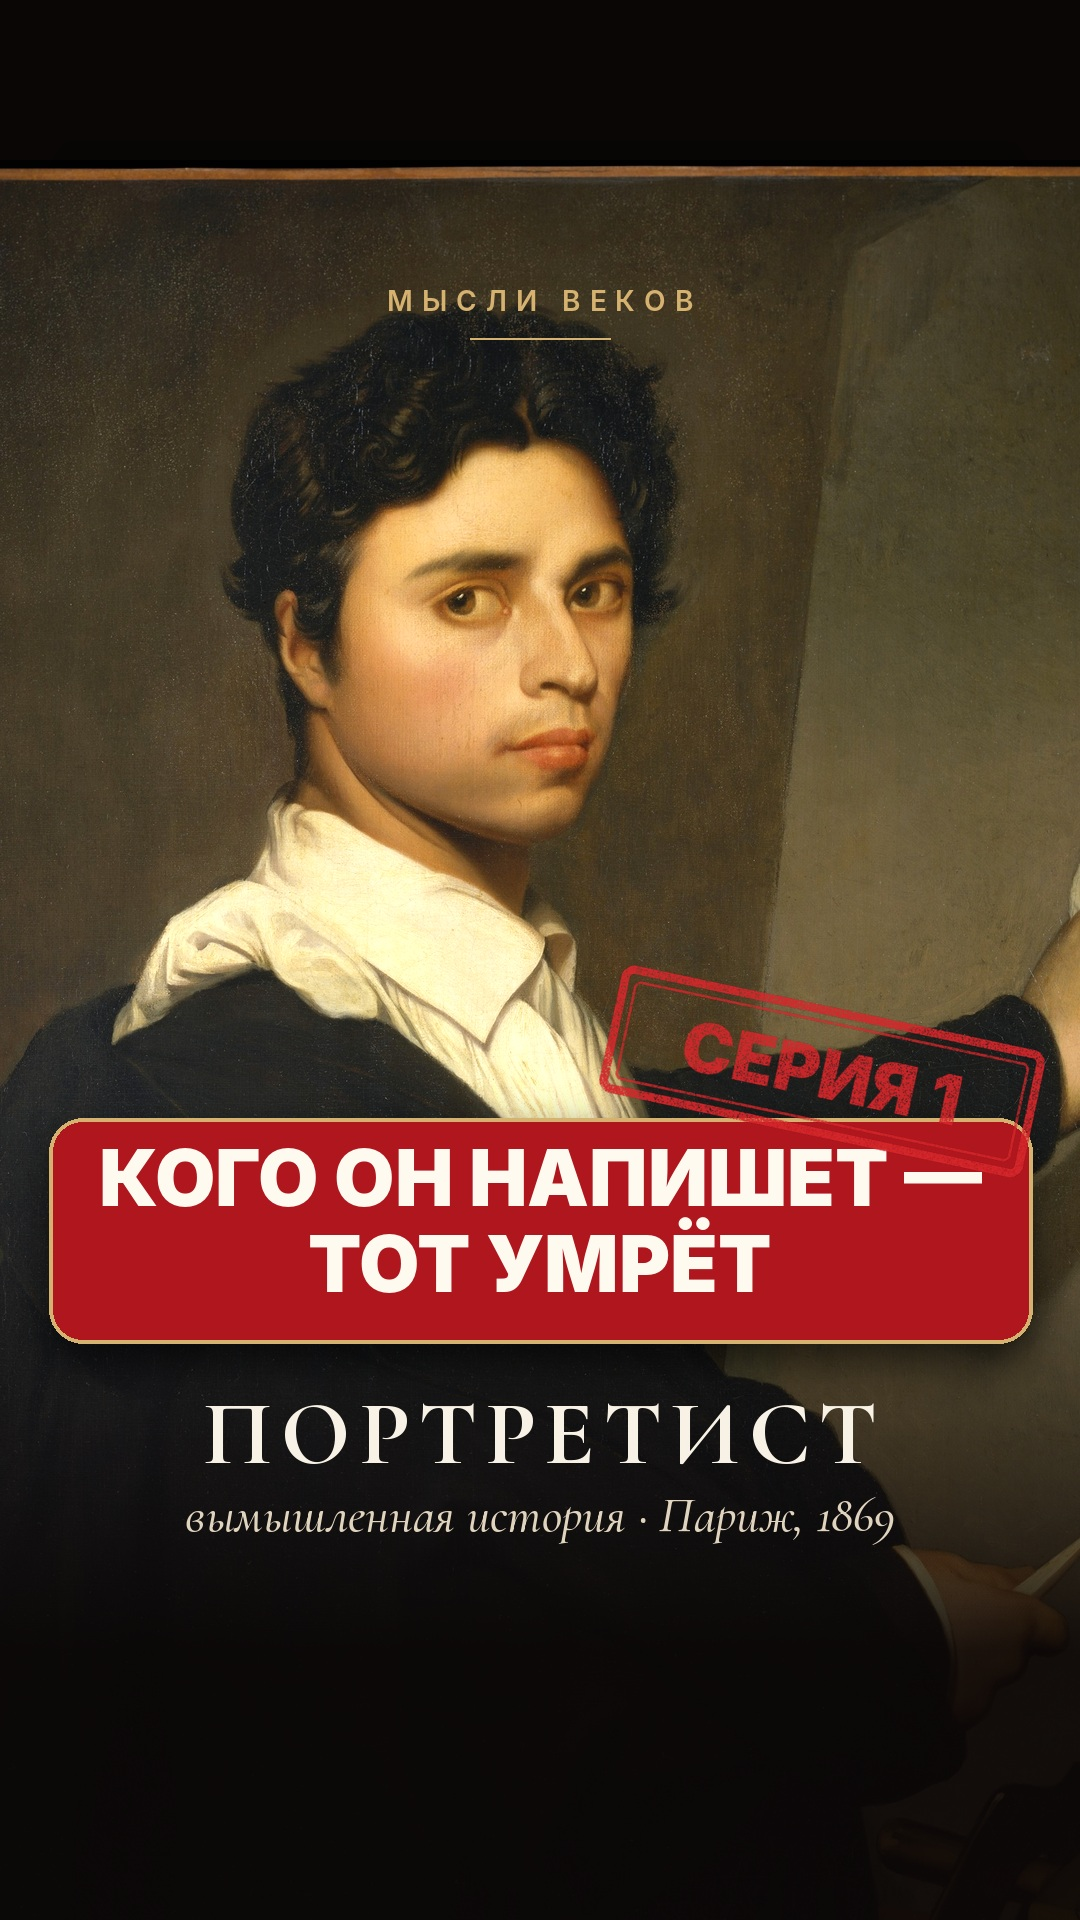
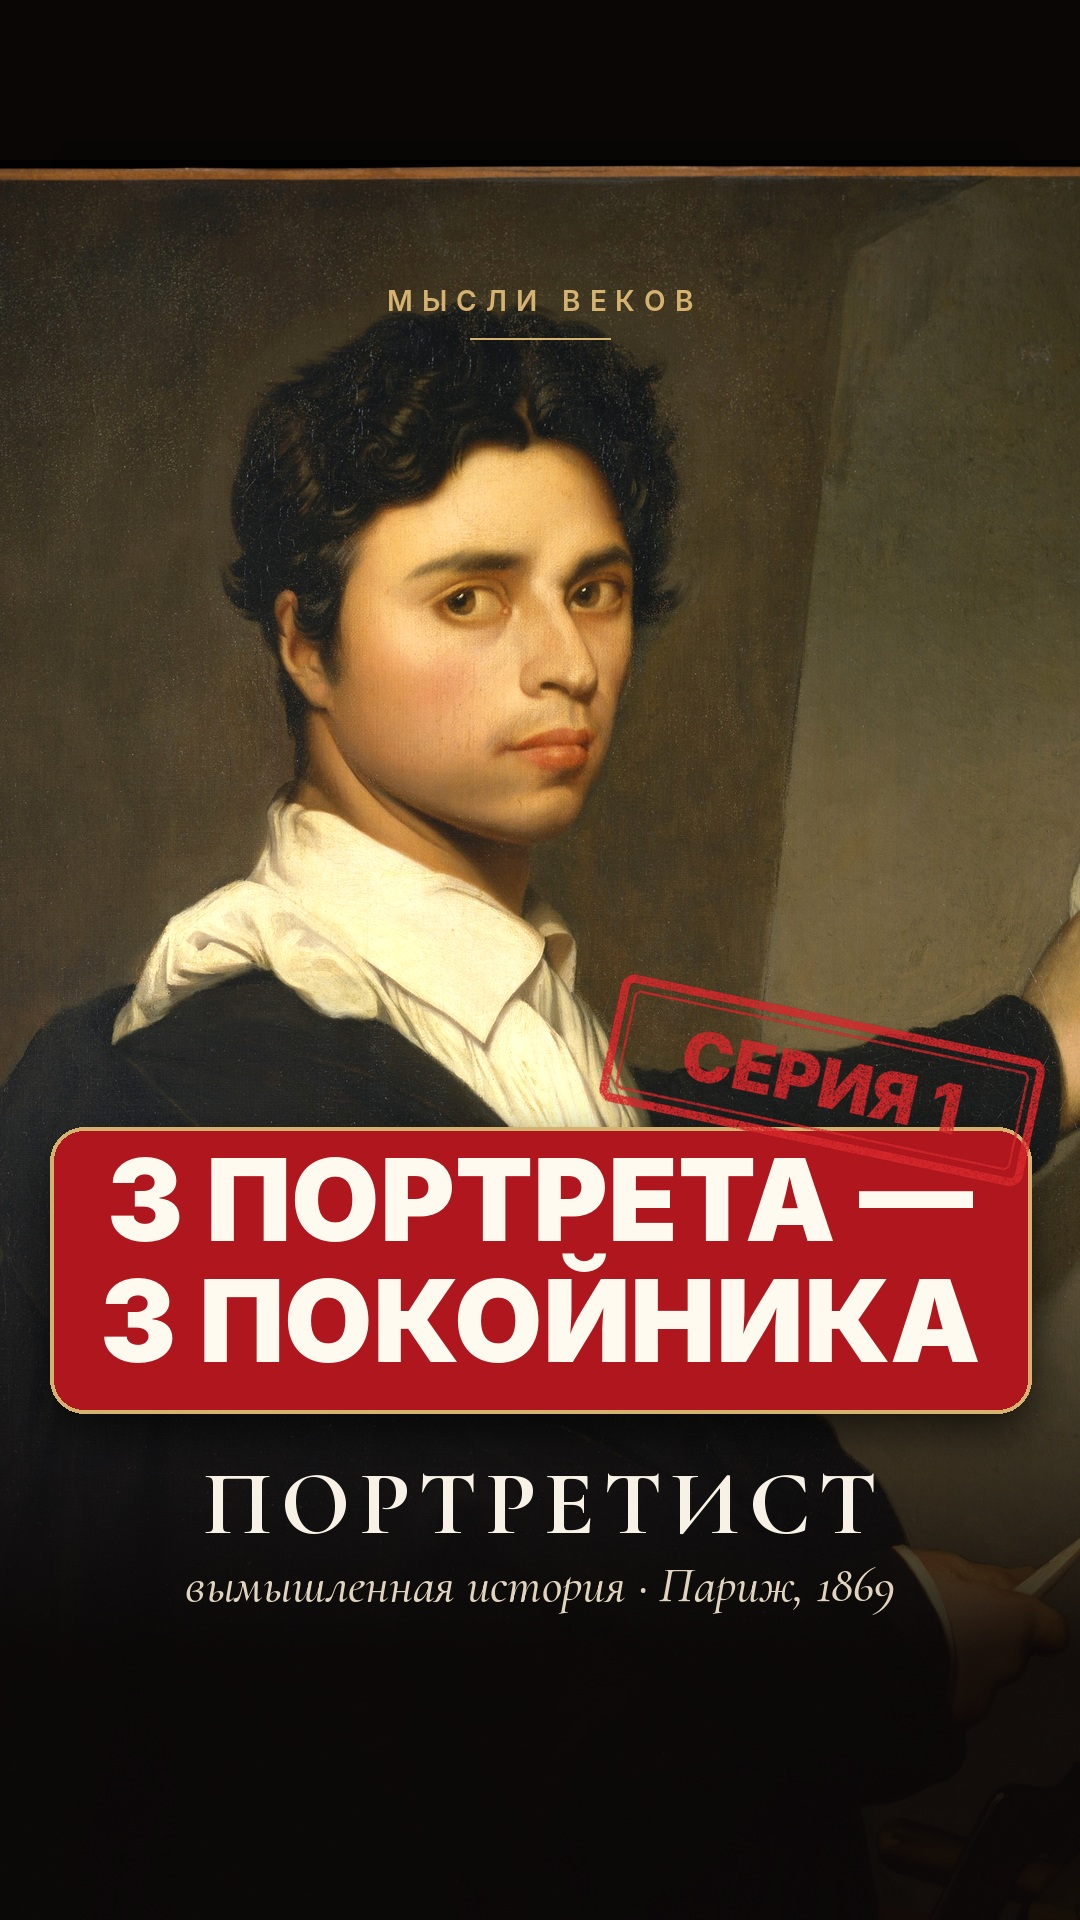
Портретист 1: короткий хук «3 портрета — 3 покойника»
Claude-Session: https://claude.ai/code/session_01EbrSjSesxnmeB8X6kRV6r1

Changed region(s): [[0.0306, 0.5, 0.9778, 0.8438], [0.0306, 0.5938, 0.0611, 0.6562]]

diff --git a/reels/configs/portraitist_1.py b/reels/configs/portraitist_1.py
@@ -3,13 +3,13 @@
 import os, sys; sys.path.insert(0, os.path.dirname(__file__)); from _voice2 import *
 HEAD = ("ПОРТРЕТИСТ  ·  СЕРИЯ 1", "ВЫМЫШЛЕННАЯ ИСТОРИЯ")
 TITLE = ("", "", "")
-HOOK = ("КОГО ОН НАПИШЕТ —\nТОТ УМРЁТ", 3.0)
+HOOK = ("3 ПОРТРЕТА —\n3 ПОКОЙНИКА", 2.5)
 HOOK_SIZE = 84
 HOOK_Y = 1000
 DRUM = True
 MUSIC = ("music/borodin_nocturne.mp3", 4)
 SCENES = [
-    ("Каждый, кого пишет этот художник, | умирает через неделю.",
+    ("Три портрета. Три покойника. | И один художник.",
      "SUB", "ПАРИЖ, 1869", "met_436709", "Мадам Эке. Энгр в молодости, около 1850–1860 (по Энгру)", (1.0, 1.15, (0.5, 0.35), (0.45, 0.3))),
     ("Первым был граф. | Через семь дней после портрета | он не проснулся.",
      "SUB", "ЖЕРТВА 1", "met_436704", "Ж. О. Д. Энгр. Эдмон Каве, 1844", (1.0, 1.15, (0.5, 0.4), (0.45, 0.35))),

diff --git a/reels/make_covers_portraitist.py b/reels/make_covers_portraitist.py
@@ -11,5 +11,5 @@ def fit(name, cy=0.4):
         ch = int(w * 16 / 9); bg = Image.new("RGB", (w, ch), (14, 11, 9)); bg.paste(im, (0, int((ch - h) * cy))); im = bg
     im = im.resize((1080, 1920), Image.LANCZOS)
     out = Image.new("RGB", (1080, 1920), (14, 11, 9)); out.paste(im.crop((0, 0, 1080, 1760)), (0, 160)); return out
-make_click(fit("met_436709", 0.3), "КОГО ОН НАПИШЕТ —\nТОТ УМРЁТ", "СЕРИЯ 1", "ПОРТРЕТИСТ", "вымышленная история · Париж, 1869", "43_portraitist_1_click", y=1130)
+make_click(fit("met_436709", 0.3), "3 ПОРТРЕТА —\n3 ПОКОЙНИКА", "СЕРИЯ 1", "ПОРТРЕТИСТ", "вымышленная история · Париж, 1869", "43_portraitist_1_click", y=1130)
 print("ok")
